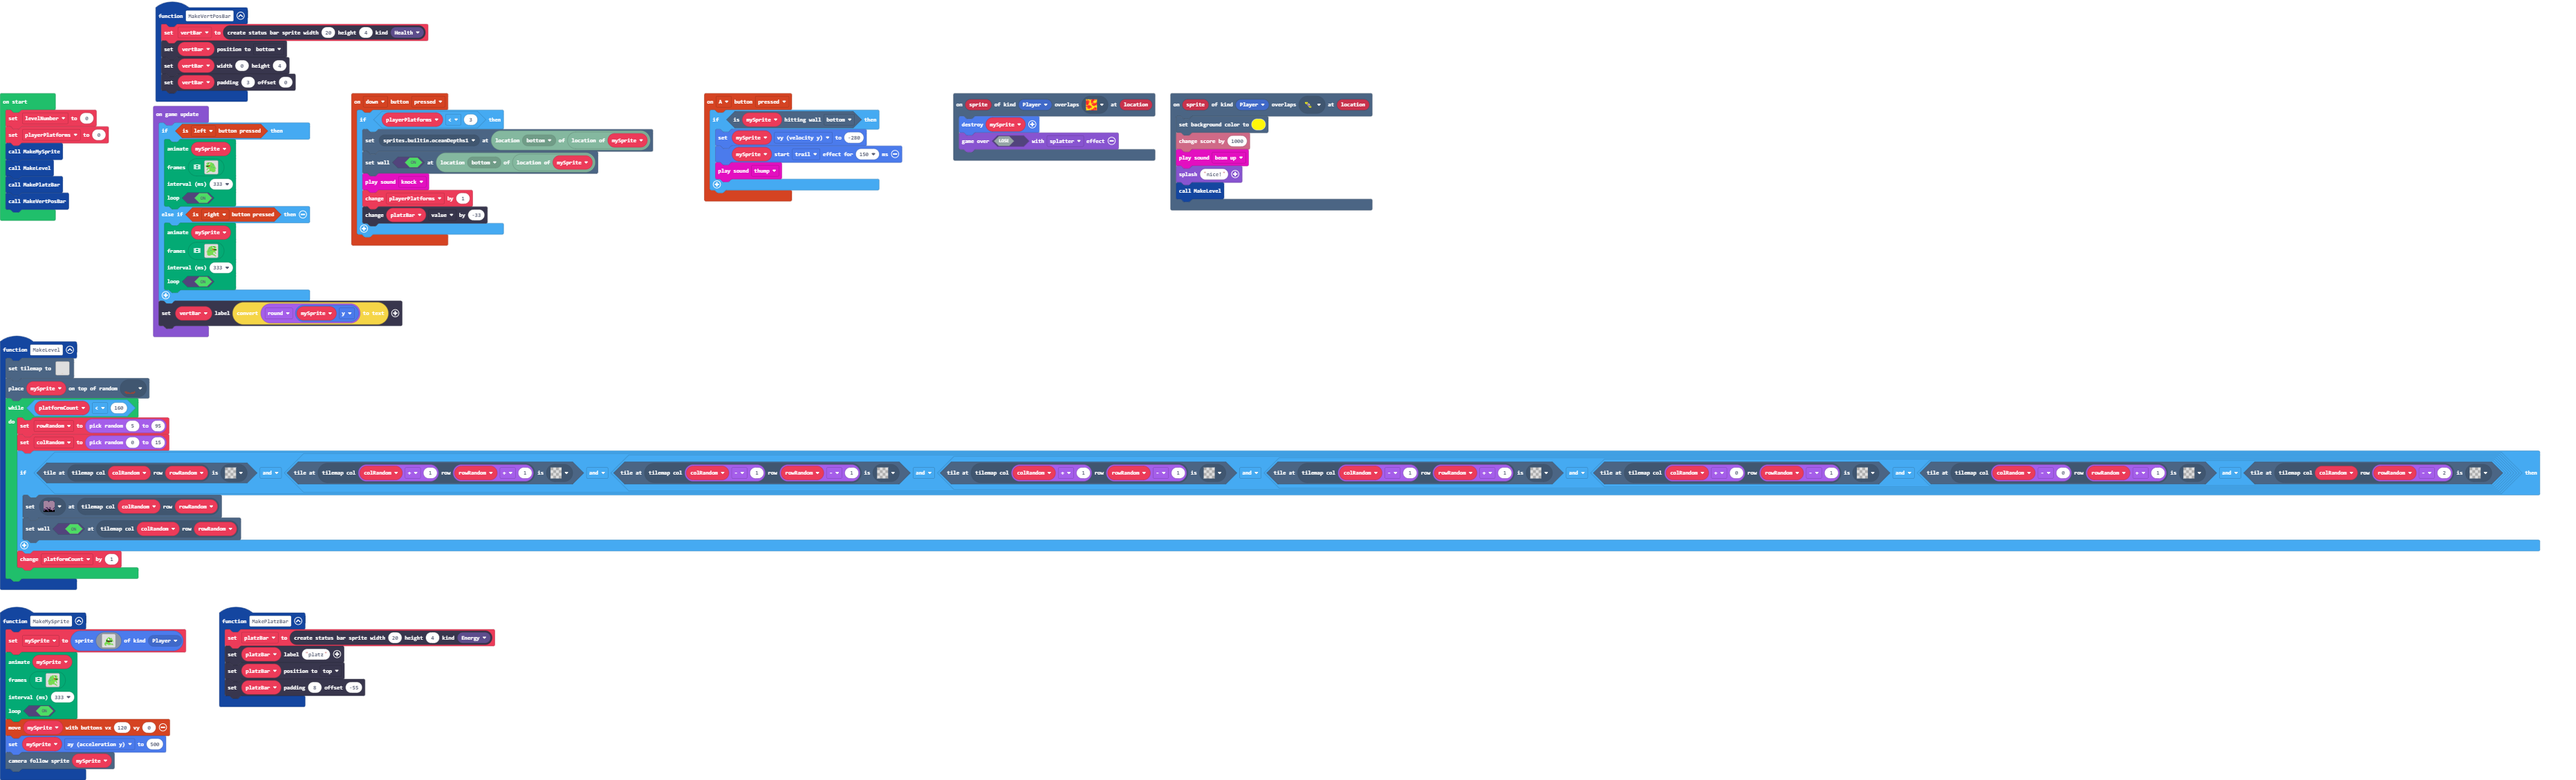
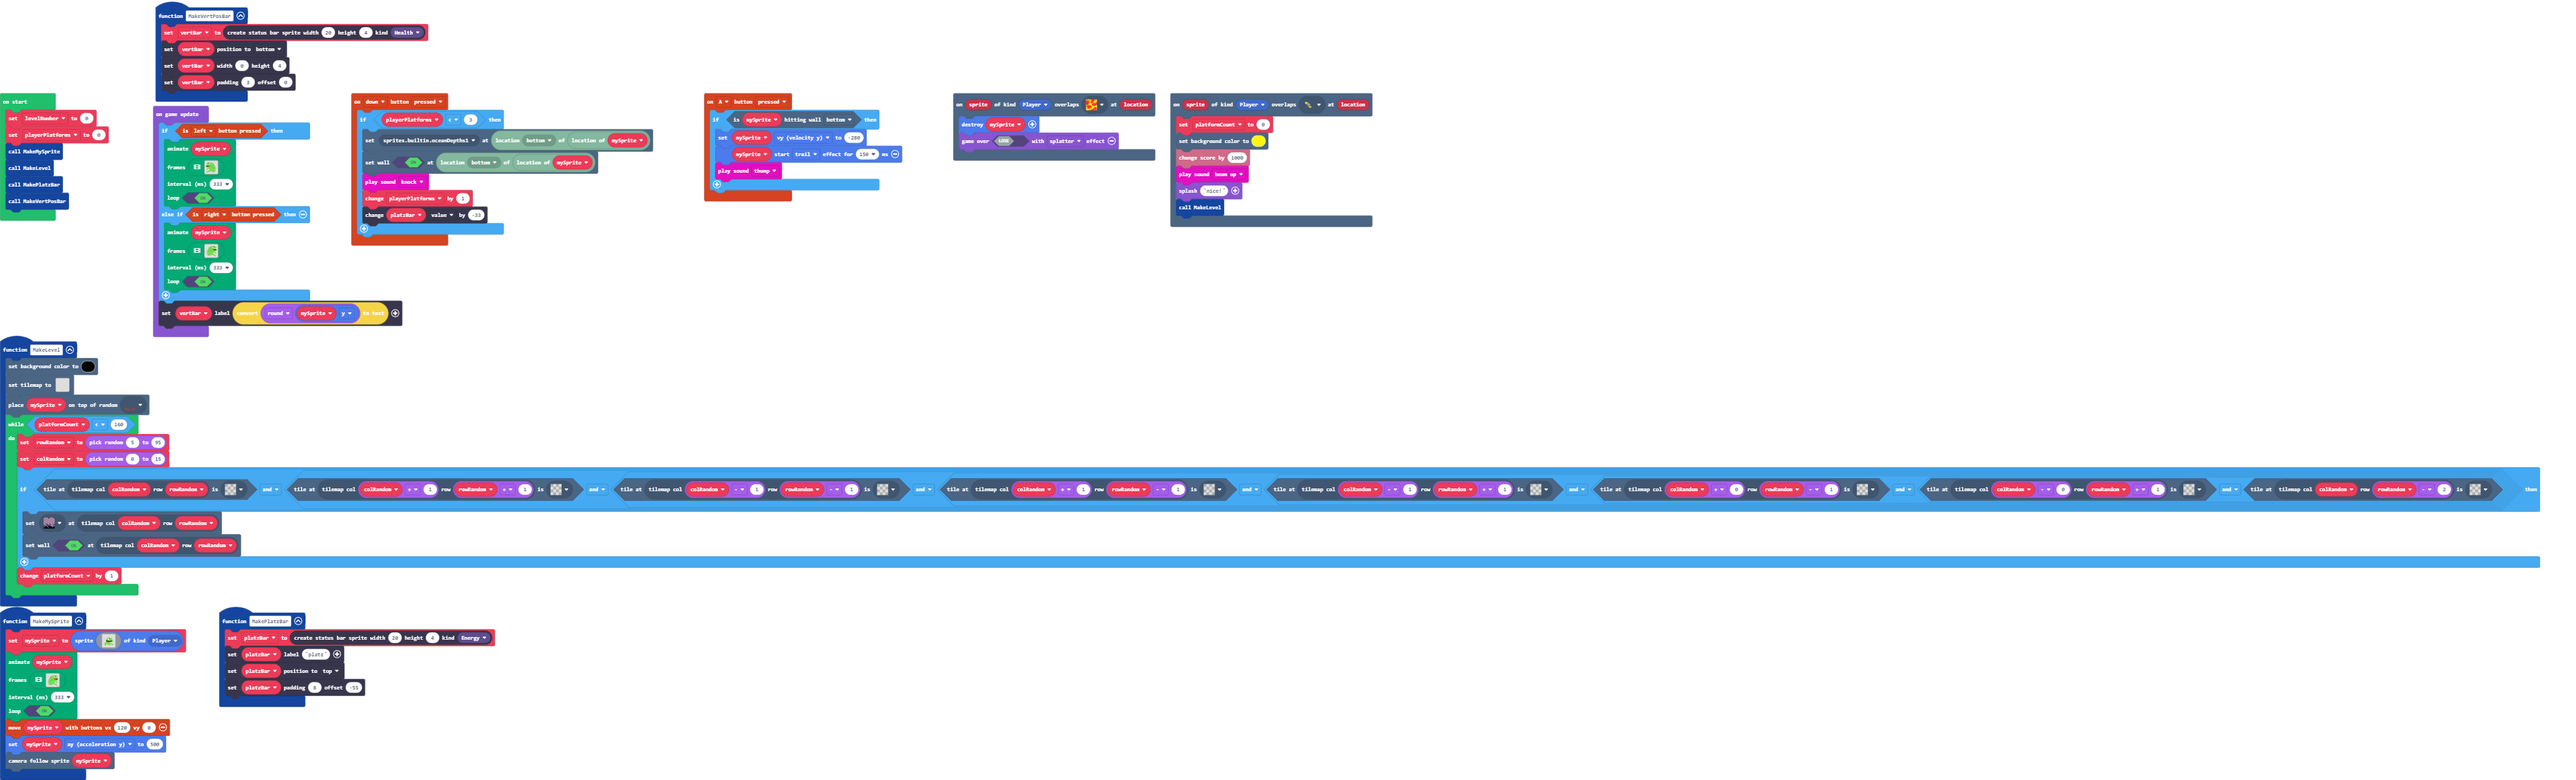
Update main.blocks, main.ts

Changed region(s): [[0.0, 0.465, 0.9965, 0.775], [0.436, 0.124, 0.5294, 0.31]]

diff --git a/main.ts b/main.ts
@@ -1,4 +1,5 @@
 scene.onOverlapTile(SpriteKind.Player, assets.tile`myTile0`, function (sprite, location) {
+    platformCount = 0
     scene.setBackgroundColor(5)
     info.changeScoreBy(1000)
     music.beamUp.play()
@@ -101,6 +102,7 @@ controller.down.onEvent(ControllerButtonEvent.Pressed, function () {
     }
 })
 function MakeLevel () {
+    scene.setBackgroundColor(15)
     tiles.setTilemap(tilemap`level2`)
     tiles.placeOnRandomTile(mySprite, assets.tile`myTile`)
     while (platformCount < 160) {
@@ -115,10 +117,10 @@ function MakeLevel () {
 }
 let colRandom = 0
 let rowRandom = 0
-let platformCount = 0
 let vertBar: StatusBarSprite = null
 let mySprite: Sprite = null
 let platzBar: StatusBarSprite = null
+let platformCount = 0
 let playerPlatforms = 0
 let levelNumber = 0
 playerPlatforms = 0
